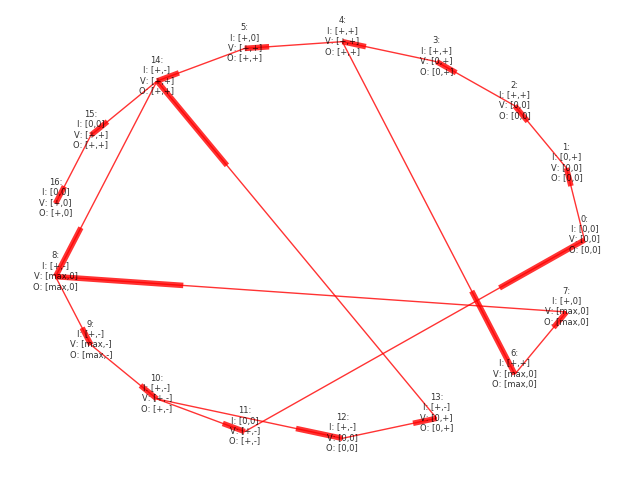
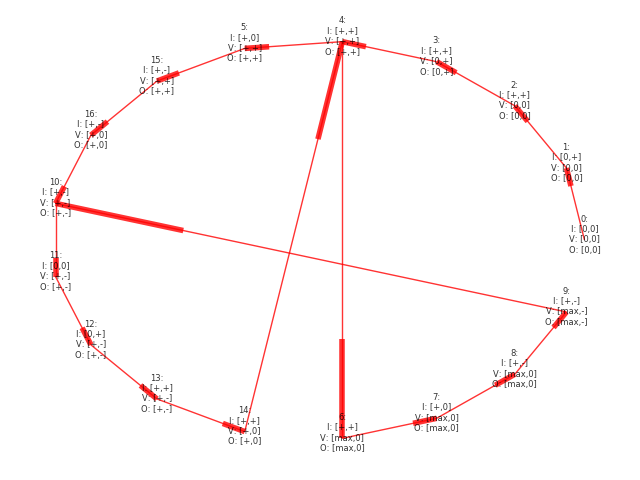
Added output

diff --git a/algorithm_matt.py b/algorithm_matt.py
@@ -139,13 +139,23 @@ class State:
             states.append(State(prev=self, volume=(self.volume.mag, '0')))
             reasons.append(['(I) There is outflow but no inflow, so the volume cannot increase'])
 
-        elif self.inflow.mag != '0' and self.outflow.mag != '0' and self.volume.dev == '0':
+        elif self.inflow.mag == '+' and self.outflow.mag != '0' and self.volume.dev == '0':
             if self.volume.mag != 'max' and self.inflow.dev != '-':
                 states.append(State(prev=self, volume=(self.volume.mag, '+')))
                 reasons.append(['(I) There is inflow and outflow, so the volume could be increasing'])
             if self.volume.mag != '0' and self.inflow.dev != '+':
                 states.append(State(prev=self, volume=(self.volume.mag, '-')))
                 reasons.append(['(I) There is inflow and outflow, so the volume could be decreasing'])
+
+        if self.inflow.dev == '-' and self.outflow.mag == '+' and self.outflow.dev == '+':
+            states.append(State(prev=self, volume=(self.volume.mag, '0')))
+            reasons.append(['(I) The inflow may decrease below the level of the outflow, '
+                            'causing the volume to stop increasing'])
+
+        if self.inflow.dev == '+' and self.volume.dev == '-':
+            states.append(State(prev=self, volume=(self.volume.mag, '0')))
+            reasons.append(['(I) The inflow may increase above the level of the outflow, '
+                            'causing the volume to stop decreasing'])
 
         # Proportionality
         for i, state in enumerate(states):
@@ -156,6 +166,7 @@ class State:
             elif state.outflow.dev != self.outflow.dev:
                 word = 'increasing' if state.volume.dev == '+' else 'decreasing' if state.volume.dev == '-' else 'stable'
                 reasons[i].append('(P) The outflow is {}, so the outflow must be {} too'.format(word, word))
+
             # if self.volume.dev == '+' and self.outflow.dev == '0' and state.outflow.mag != 'max':
             #     state.outflow.dev = '+'
             # elif self.volume.dev == '+' and self.outflow.dev == '-':
@@ -183,7 +194,7 @@ class State:
         if self.volume.dev == '+' and self.volume.mag == '+':
             states.append(State(prev=self, volume=('max', '0'), outflow=('max', '0')))
             reasons.append(['(T) The volume is increasing, so it may reach its maximum'])
-        if self.volume.dev == '-' and self.volume.mag == '+':
+        if self.volume.dev == '-' and self.volume.mag == '+' and self.inflow.mag == '0':
             states.append(State(prev=self, volume=('0', '0'), outflow=('0', '0')))
             reasons.append(['(T) The inflow is decreasing, so it may reach its zero'])
 
@@ -191,7 +202,7 @@ class State:
         if self.outflow.dev == '+' and self.outflow.mag == '+':
             states.append(State(prev=self, volume=('max', '0'), outflow=('max', '0')))
             reasons.append(['(T) The outflow is increasing, so it may reach its maximum'])
-        if self.outflow.dev == '-' and self.outflow.mag == '+':
+        if self.outflow.dev == '-' and self.outflow.mag == '+' and self.inflow.mag == '0':
             states.append(State(prev=self, volume=('0', '0'), outflow=('0', '0')))
             reasons.append(['(T) The outflow is decreasing, so it may reach zero'])
 
